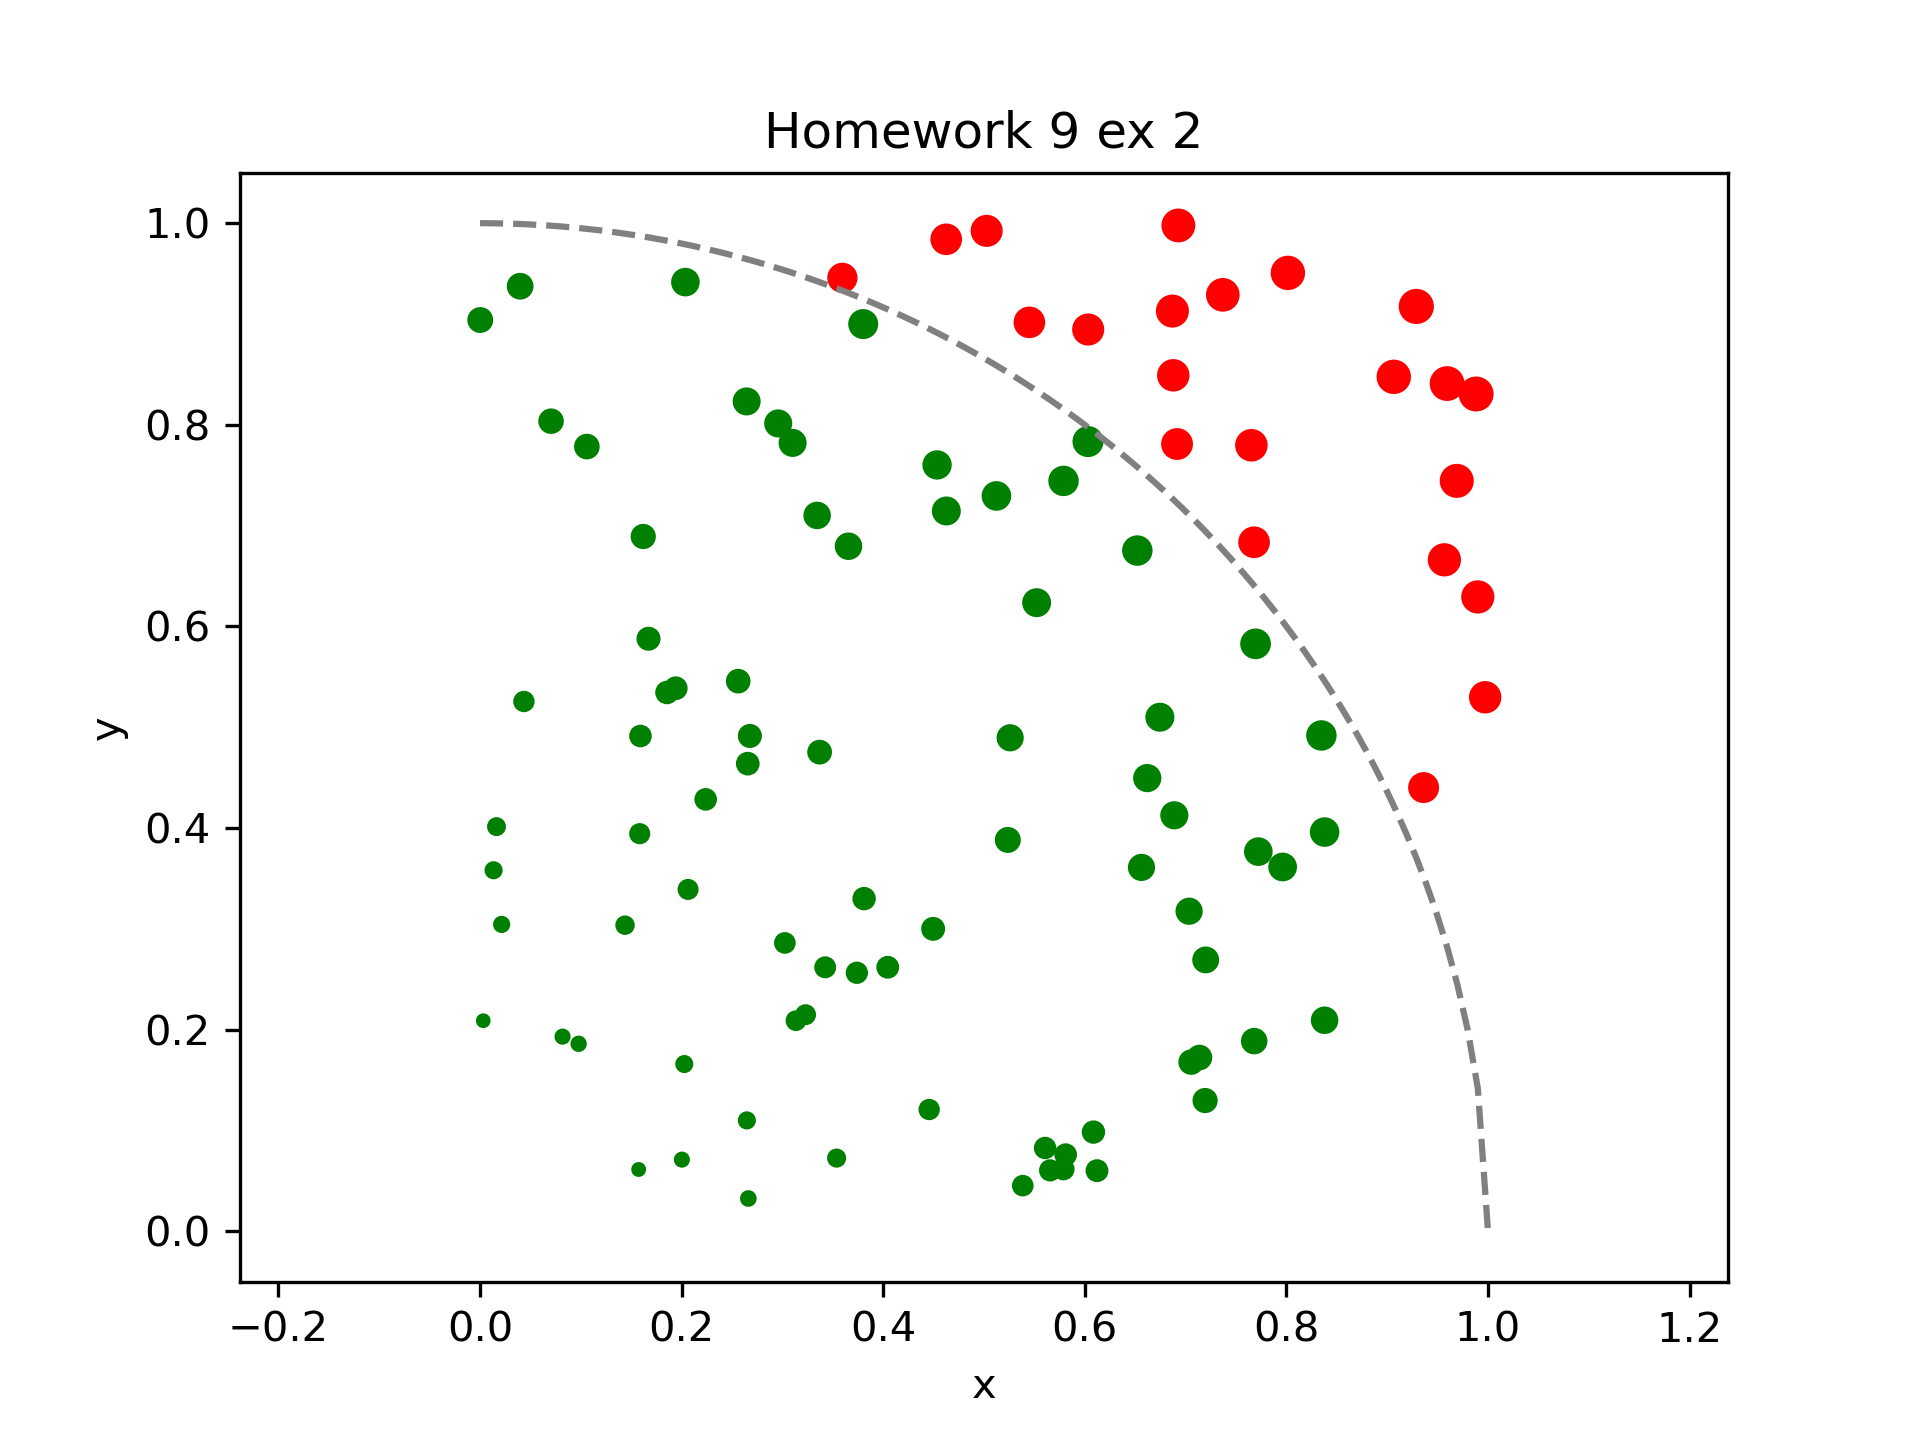
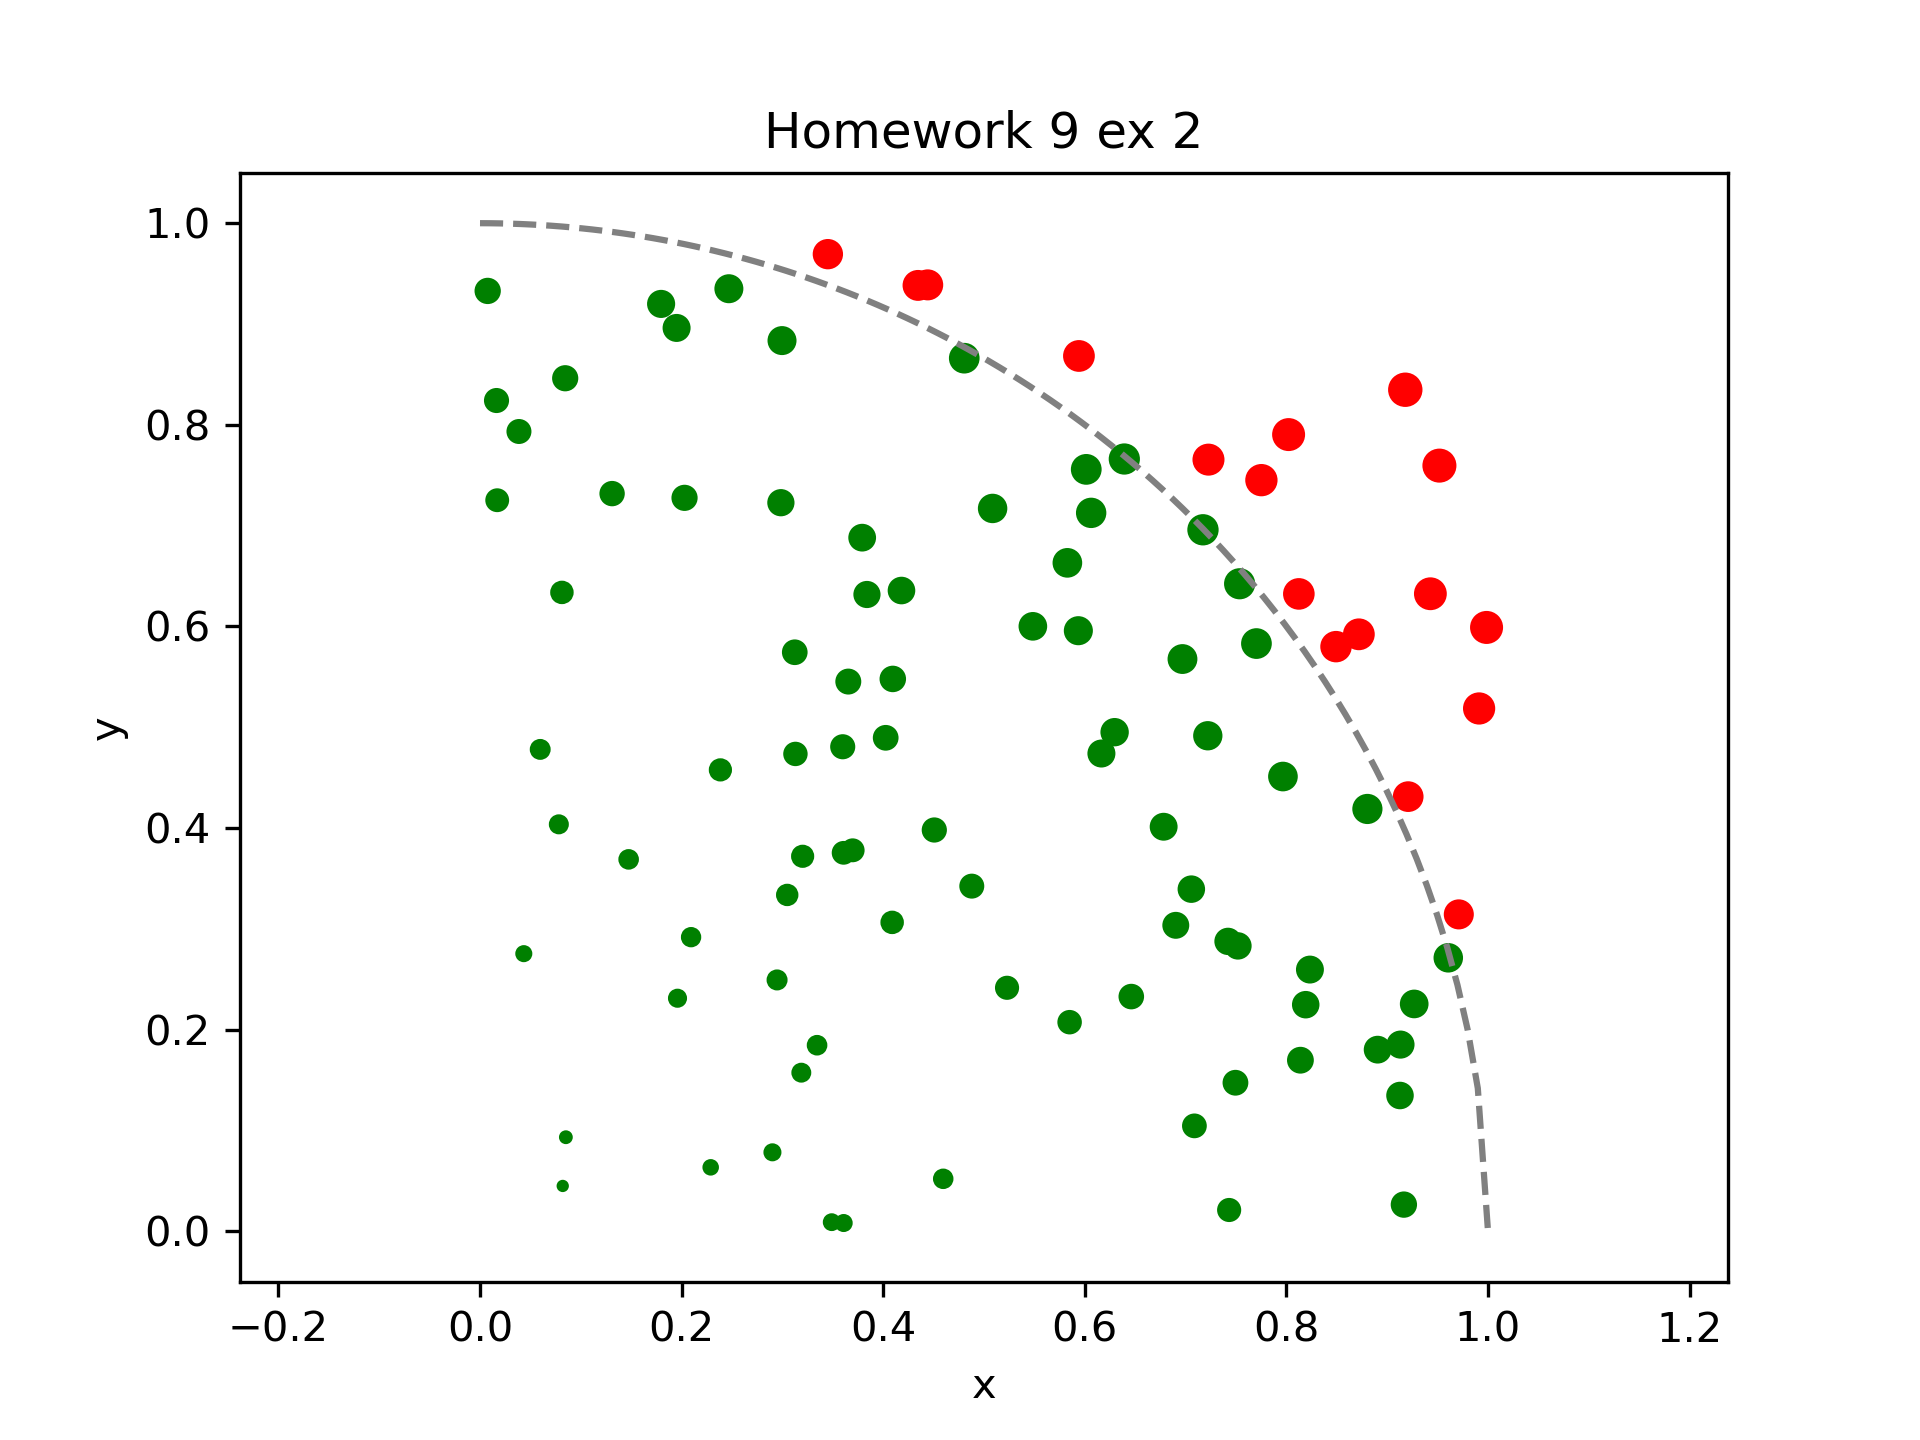
Homework 9 ex 2 correction

diff --git a/Homeworks/ex9-2.py b/Homeworks/ex9-2.py
@@ -9,8 +9,7 @@ x= np.linspace(0, 1, 100)
 fig, ax = plt.subplots(1, 1)
 
 marker_size = np.sum(30*np.abs(points), 1)
-marker_color = np.full(points.shape[0], "r")
-marker_color[np.sqrt(np.sum(points**2, 1)) < 1] = "g"
+marker_color =np.where(np.sum(points**2, 1) < 1, "g", "r")
 
 ax.plot(x, np.sqrt(1-x**2), '--', color="grey")
 ax.scatter(points[:, 0], points[:, 1], marker_size, marker_color)
